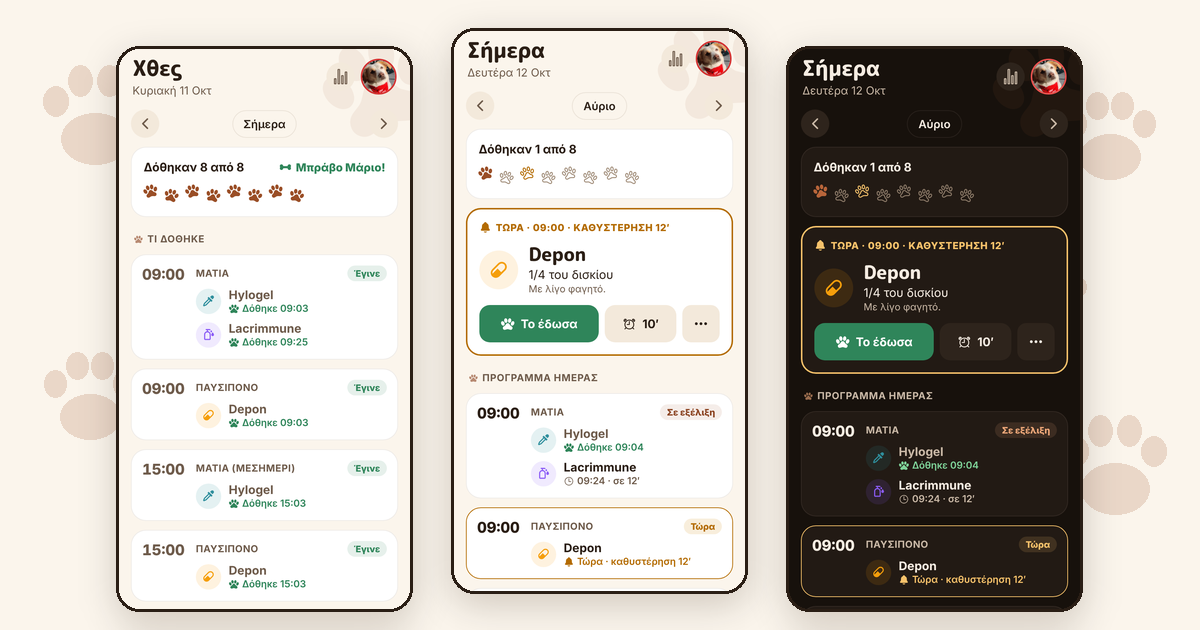
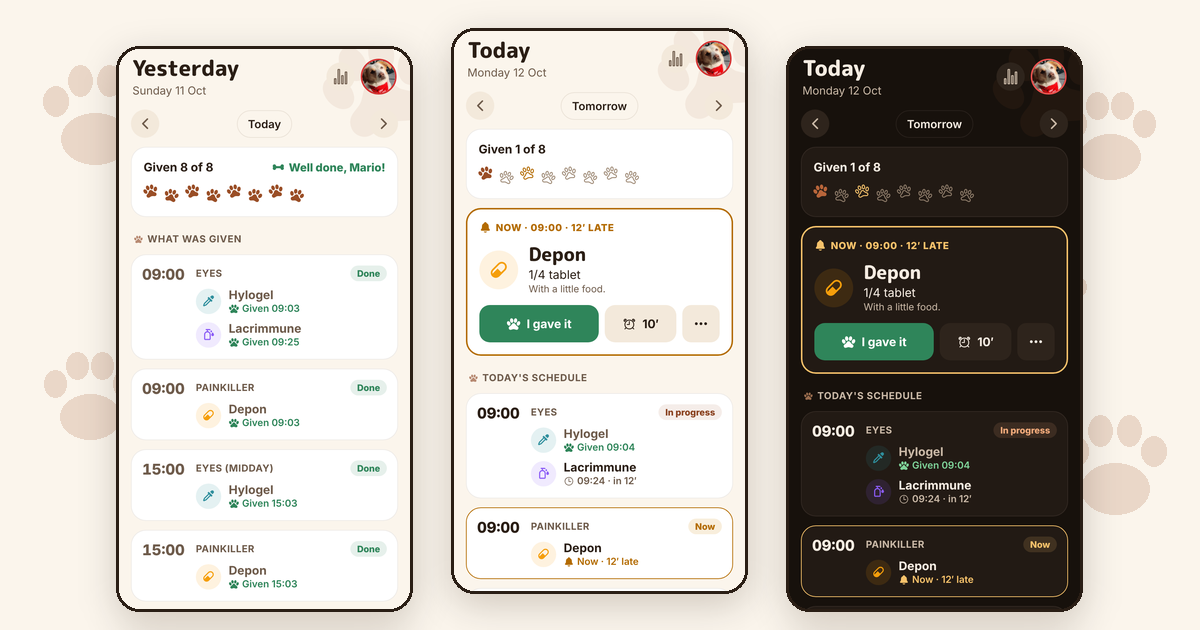
Use English screenshots in the Mario's helper post
The app is in Greek, so the banner and the inline image now show its
screens translated to English, and the post says so.

Claude-Session: https://claude.ai/code/session_01BBHdHCMtGfUdkoybeubcWh

diff --git a/posts/marios-helper-v3.md b/posts/marios-helper-v3.md
@@ -96,7 +96,9 @@ The last request was the fun one: "Μπορείς να την κάνεις dog t
 
 The colours come from Mario's photo: cream for his fur, caramel for his ears, and a red ring around his photo for his bandana. Paw prints replace the ticks. A row of them fills in as the day's doses are given, and when they're all done it says "Μπράβο Μάριο!" (well done, Mario) next to a bone.
 
-![The Today screen in the new theme: a paw print for each of the day's doses, the medicine that's due now, and the day's routines. Next to it, a finished day with every paw filled in and "Μπράβο Μάριο!"](/blog/marios-helper-v3-screens.png)
+The app is in Greek, so I've translated the screenshots for this post.
+
+![The Today screen in the new theme: a paw print for each of the day's doses, the medicine that's due now, and the day's routines. Next to it, a finished day with every paw filled in and "Well done, Mario!"](/blog/marios-helper-v3-screens.png)
 
 Titles use a rounded font. The first one Claude picked, Nunito, turned out to have no Greek letters at all, so it's M PLUS Rounded 1c instead, cut down to Latin and Greek so it's 64 KB instead of 3.6 MB.
 
